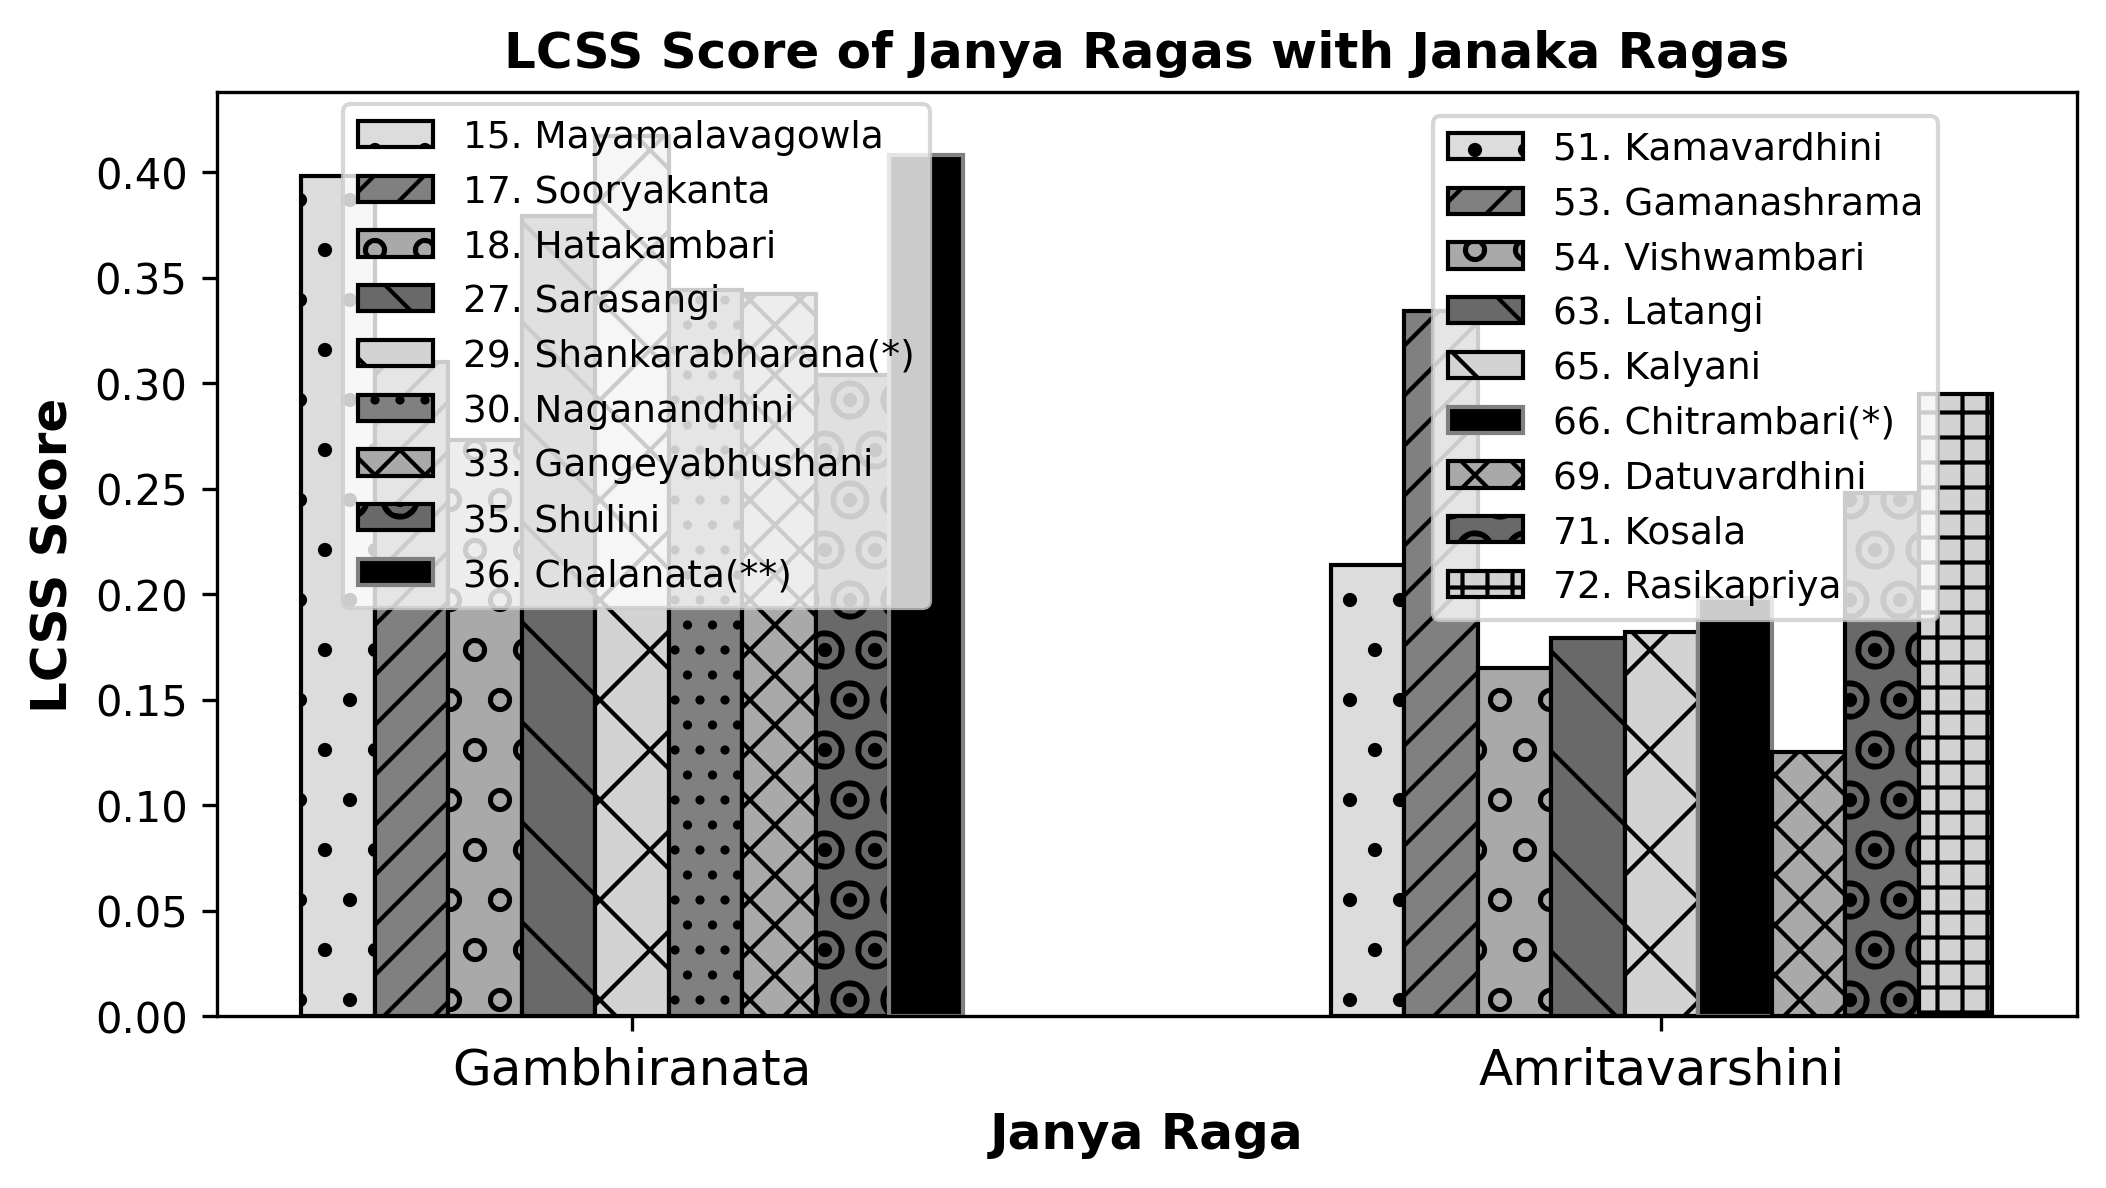
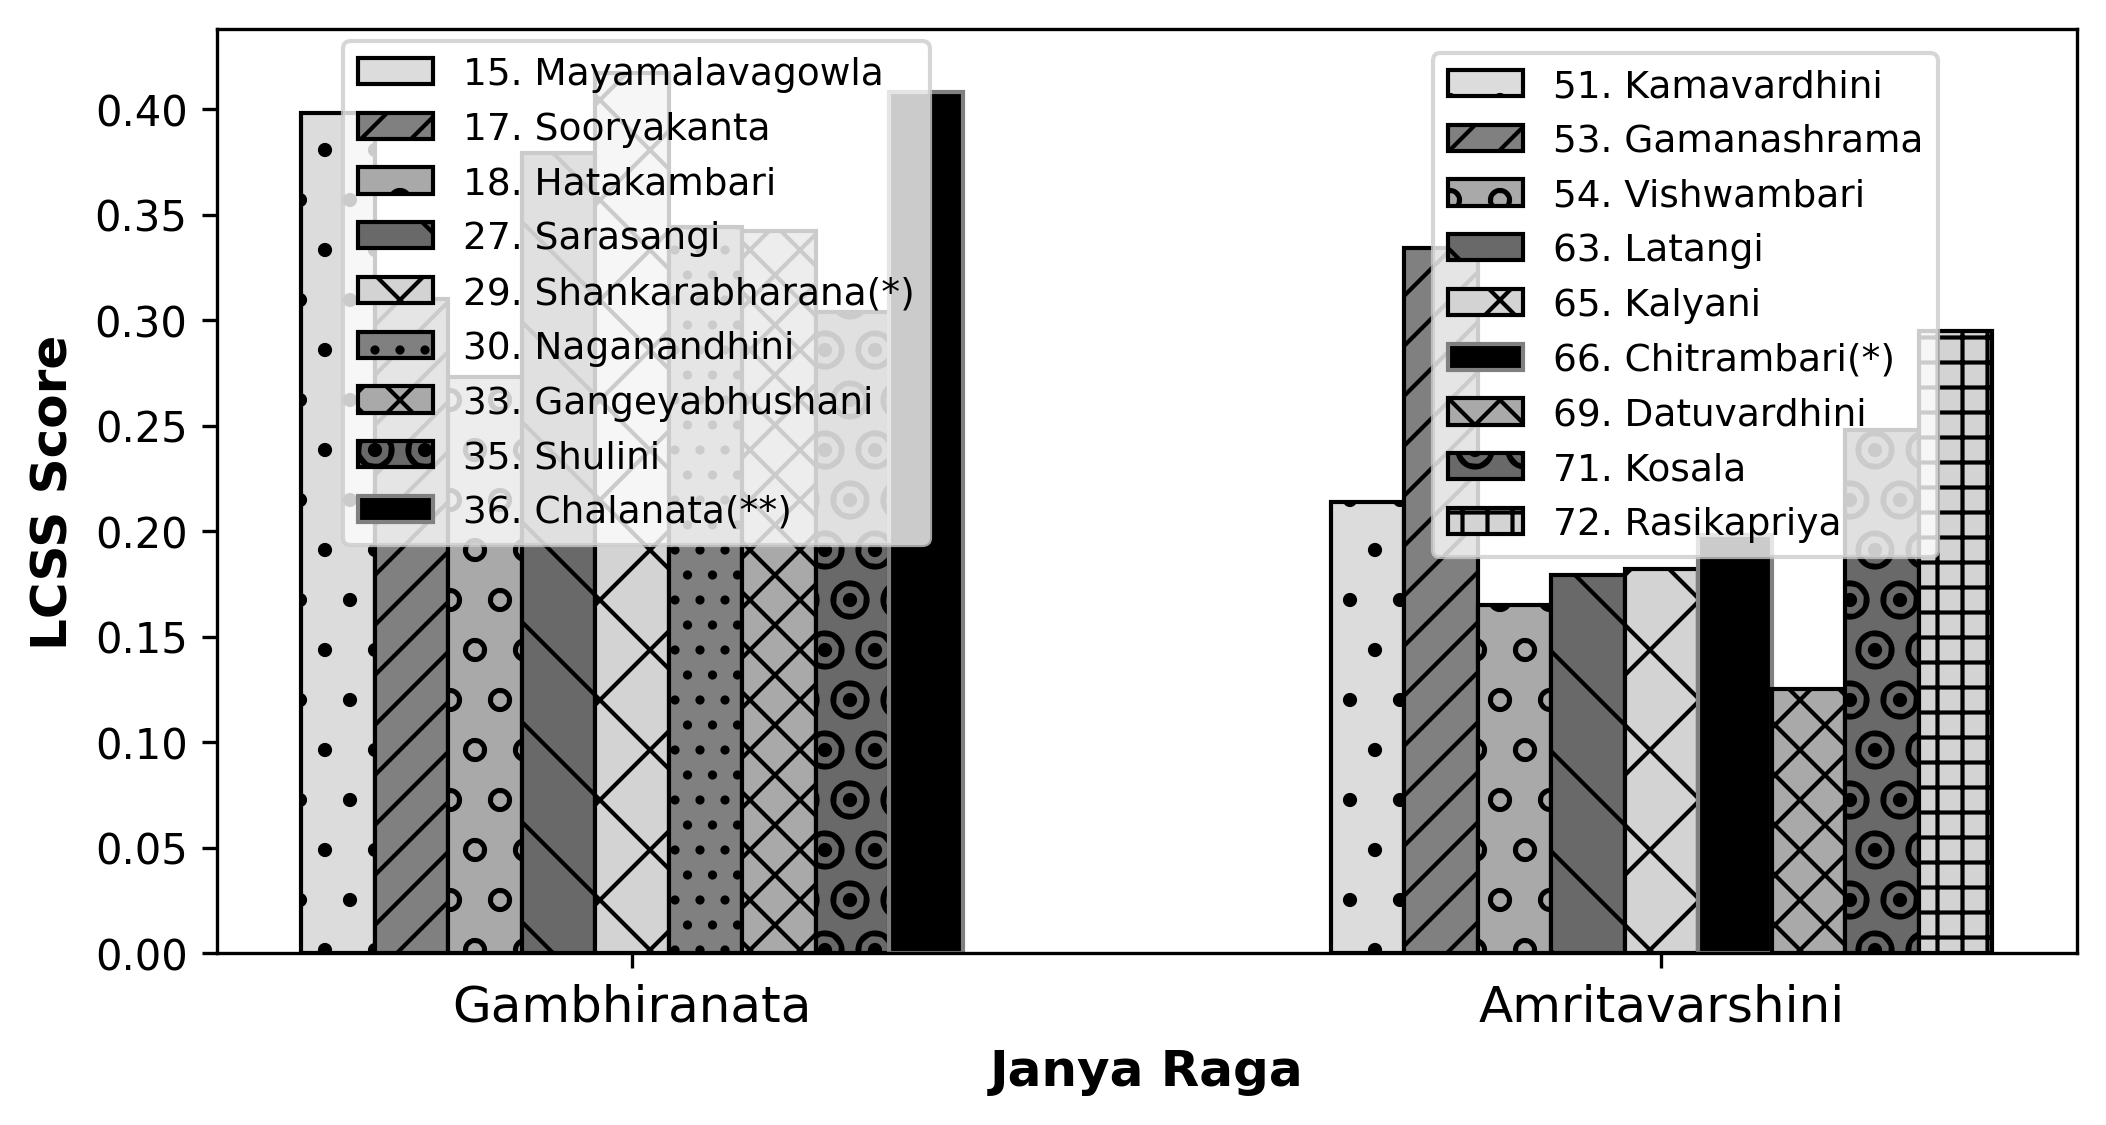
lcss plots wo title.

diff --git a/plot_tables_v10.py b/plot_tables_v10.py
@@ -120,7 +120,7 @@ def plot_figure(barWidth, height, width, sym_list, color_list, color_flag, janak
                 curr_end_position += between_bar_width
                 janya_label_list.append(janya_keys[i])
         
-        plt.title(f'LCSS Score of Janya Ragas with Janaka Ragas', fontweight ='bold', fontsize = 12)
+        # plt.title(f'LCSS Score of Janya Ragas with Janaka Ragas', fontweight ='bold', fontsize = 12)
         # Adding Xticks
         
         plt.xlabel('Janya Raga', fontweight ='bold', fontsize = 12)

diff --git a/plot_tables_v11.py b/plot_tables_v11.py
@@ -120,7 +120,7 @@ def plot_figure(barWidth, height, width, sym_list, color_list, color_flag, janak
                 curr_end_position += between_bar_width
                 janya_label_list.append(janya_keys[i])
         
-        plt.title(f'LCSS Score of Janya Ragas with Janaka Ragas', fontweight ='bold', fontsize = 12)
+        # plt.title(f'LCSS Score of Janya Ragas with Janaka Ragas', fontweight ='bold', fontsize = 12)
         # Adding Xticks
         
         plt.xlabel('Janya Raga', fontweight ='bold', fontsize = 12)

diff --git a/plot_tables_v7.py b/plot_tables_v7.py
@@ -119,7 +119,7 @@ def plot_figure(barWidth, height, width, sym_list, color_list, color_flag, janak
                 curr_end_position += between_bar_width
                 janya_label_list.append(janya_keys[i])
         
-        plt.title(f'LCSS Score of Janya Ragas with Janaka Ragas', fontweight ='bold', fontsize = 12)
+        # plt.title(f'LCSS Score of Janya Ragas with Janaka Ragas', fontweight ='bold', fontsize = 12)
         # Adding Xticks
         
         plt.xlabel('Janya Raga', fontweight ='bold', fontsize = 12)

diff --git a/plot_tables_v8.py b/plot_tables_v8.py
@@ -121,7 +121,7 @@ def plot_figure(barWidth, height, width, sym_list, color_list, color_flag, janak
                 curr_end_position += between_bar_width
                 janya_label_list.append(janya_keys[i])
         
-        plt.title(f'LCSS Score of Janya Ragas with Janaka Ragas', fontweight ='bold', fontsize = 12)
+        # plt.title(f'LCSS Score of Janya Ragas with Janaka Ragas', fontweight ='bold', fontsize = 12)
         # Adding Xticks
         
         plt.xlabel('Janya Raga', fontweight ='bold', fontsize = 12)

diff --git a/plot_tables_v9.py b/plot_tables_v9.py
@@ -119,7 +119,7 @@ def plot_figure(barWidth, height, width, sym_list, color_list, color_flag, janak
                 curr_end_position += between_bar_width
                 janya_label_list.append(janya_keys[i])
         
-        plt.title(f'LCSS Score of Janya Ragas with Janaka Ragas', fontweight ='bold', fontsize = 12)
+        # plt.title(f'LCSS Score of Janya Ragas with Janaka Ragas', fontweight ='bold', fontsize = 12)
         # Adding Xticks
         
         plt.xlabel('Janya Raga', fontweight ='bold', fontsize = 12)
